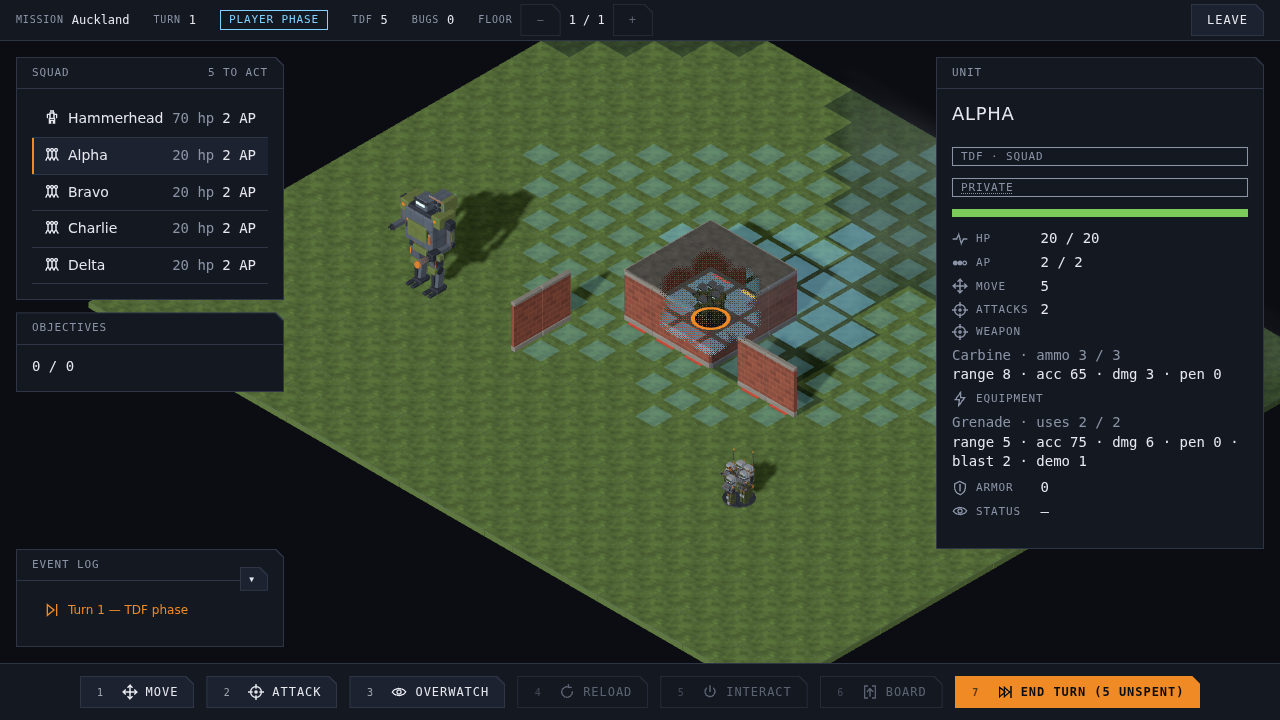
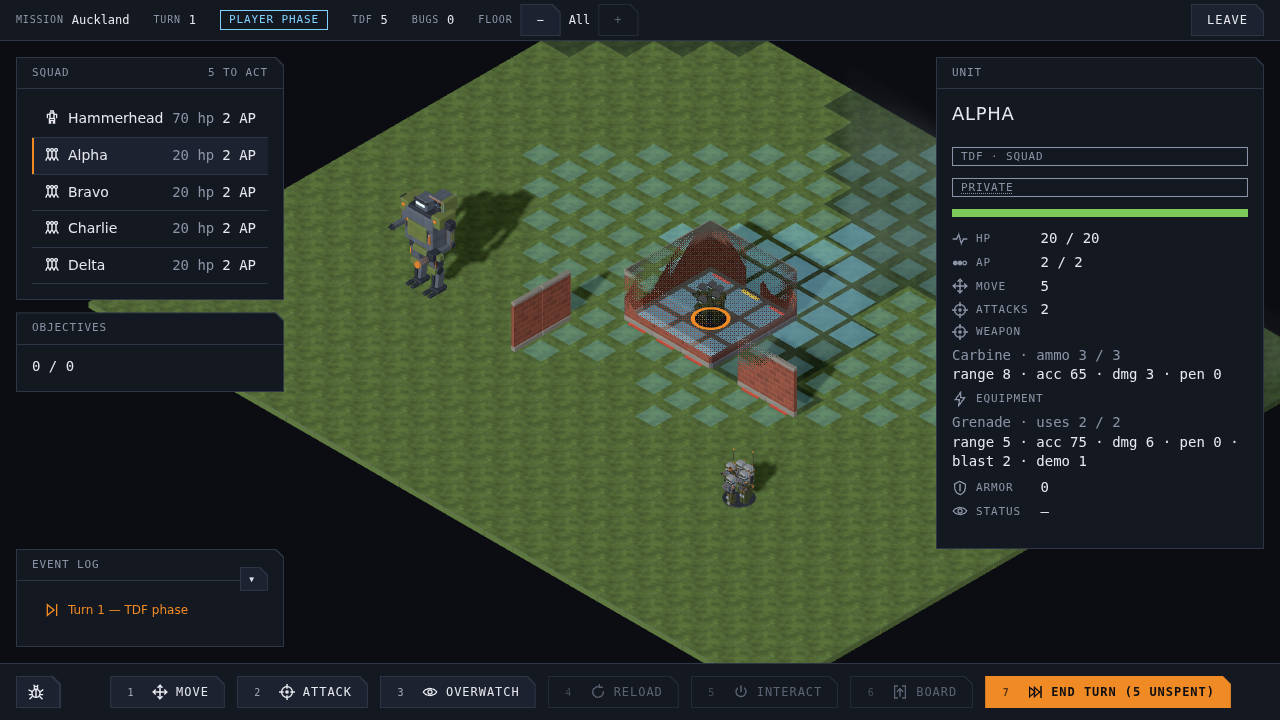
test(e2e): capture a squad inside a generated building through the cutaway; re-render the test room (#1138)

diff --git a/e2e/ghost-interior-screenshot.spec.ts b/e2e/ghost-interior-screenshot.spec.ts
@@ -1,0 +1,257 @@
+import { expect, test } from "@playwright/test";
+
+import {
+  directionOffset,
+  oppositeDirection,
+  stepGridPos,
+} from "../src/core/service/grid-math";
+import { allows, PassMask } from "../src/mapgen/model/pass-mask";
+import type { TileCoord } from "../src/mapgen/model/tile-coord";
+import { TileIndex } from "../src/mapgen/service/tile-index";
+import type { GameState } from "../src/save/model/game-state";
+import type { SaveEnvelope } from "../src/save/model/save-envelope";
+import {
+  buildMoveGraph,
+  pathTo,
+} from "../src/tactical/service/movement-service";
+import { initialVision } from "../src/tactical/service/vision-service";
+import type { TacticalTestHooks } from "../src/ui/model/tactical-intent";
+import {
+  assertNoAssetFallback,
+  drawnFrame,
+  tacticalModelsReady,
+  watchAssetFallback,
+} from "./capture-frame.helper";
+import { CITY_MISSION_FIXTURE } from "./fixtures/mission-maps";
+import { launchMission, settleForShot } from "./mission-capture.helper";
+
+/** The page's global object as seen from `page.evaluate`. */
+interface HookGlobal {
+  __tutTactical__?: TacticalTestHooks;
+}
+
+/** The autosave the mission is rewritten through. */
+const SAVE_KEY = "tut:save:autosave";
+
+/** The building `interior-movement.spec.ts` walks a squad into, on the same fixture. */
+const BUILDING_ID = "building-3";
+
+/** The squad the frame is judged on: standing deep enough inside for walls on every side. */
+const INSIDE_ID = "unit-2";
+
+/** The second squad, one step in from the doorway, so the door reads as a door. */
+const DOOR_ID = "unit-3";
+
+/** Steps in from the doorway the judged squad stands, along a real path. */
+const DEPTH = { min: 2, max: 3 } as const;
+
+/**
+ * Wheel notches that zoom the tactical camera in on the room. One notch
+ * is clamped to 120 px and the zoom factor is `exp(-px × 0.0015)`, so
+ * four notches are ×2.05, about 131 px per tile from the opening 64.
+ * The interior is legible at that size and the doorway and the
+ * neighbouring rooms are still in the frame.
+ */
+const ZOOM_IN = { notches: 4, px: -120 } as const;
+
+/**
+ * A squad inside a real generated building, seen through the cutaway,
+ * for the Executive Director's call on #1138: the ray radius after
+ * #1134 was too tight to navigate a room by. The frame is the judge.
+ *
+ * ```
+ *   before (#1134)                    after (#1138)
+ *   radius 0.6, 11 rays               radius 1.2, 11 body rays + a ring
+ *   ┌──────────────┐                   of 8 at waist height 0.75 u out
+ *   │ ████▒▒◉▒▒███ │  the unit and a   ┌──────────────┐
+ *   │ ████▒▒▒▒▒███ │  sliver of wall   │ ▒▒░░░░◉░░░▒▒ │  the unit, its tile,
+ *   │ ████████████ │  around it        │ ▒░░░░░░░░░░▒ │  a two-tile ring, the
+ *   └──────────────┘                   │ ▒▒░░░░░░░▒▒█ │  door and the near
+ *                                      └──────────────┘  internal walls
+ * ```
+ *
+ * Before: the radius was a little over half a tile and the rays left
+ * from the unit's body only, so the window on a wall in front was the
+ * unit's silhouette plus a rim and the roof over the next tile stayed
+ * solid — the unit was visible and nothing around it was, which the
+ * Executive Director could not navigate by. After: the radius is 1.2
+ * tiles and a ring of eight rays leaves from waist height 0.75 tiles
+ * outside the footprint, so the window is a cone around the unit that
+ * opens the roof and the near walls over about a two-tile ring on its
+ * floor — the tile grid, the door with the second squad in it and the
+ * desk by the far wall all read — while walls a few tiles off stay
+ * solid and the four-storey block keeps its shape. Tried on the way:
+ * 1.1 with a 0.5 margin, a touch narrower on both frames; 0.6 with the
+ * ring alone was still a keyhole. The soft edge went from 0.25 to 0.45
+ * with the radius. `e2e/tile-attack.spec.ts`, the wheel-heavy spec CI
+ * timed out on before #1134, ran 8.2–8.5 s before and 7.6–7.9 s after
+ * under SwiftShader: the reach reject still drops most fragments after
+ * one length (Executive Director, 2026-09-14, #1138).
+ *
+ * The starter force is launched for real on the pinned city fixture,
+ * then the board is rewritten: one squad two or three steps inside the
+ * building `interior-movement.spec.ts` uses, one squad a step in from
+ * its door, the rest of the force well outside. The storey cut is
+ * lifted so the roof is drawn, the camera is brought to the inside
+ * squad and zoomed in, and the frame is taken. The placement is
+ * asserted from the saved state on both sides of the reload, so a
+ * frame of the wrong thing fails instead of passing.
+ *
+ *   CAPTURE=1 pnpm exec playwright test e2e/ghost-interior-screenshot.spec.ts
+ */
+test("the cutaway opens a cone around a squad inside a generated building", async ({
+  page,
+}) => {
+  test.skip(
+    process.env.CAPTURE === undefined,
+    "set CAPTURE=1 to regenerate the ghost-interior screenshot",
+  );
+  test.setTimeout(180_000);
+  const errors: string[] = [];
+  page.on("pageerror", (error) => errors.push(error.message));
+  watchAssetFallback(page);
+  await page.setViewportSize({ width: 1280, height: 720 });
+  await launchMission(page, "4242", CITY_MISSION_FIXTURE);
+  await tacticalModelsReady(page);
+
+  const save = await page.evaluate(
+    (key) => JSON.parse(localStorage.getItem(key)!) as SaveEnvelope<GameState>,
+    SAVE_KEY,
+  );
+  const original = save.state.activeMission!;
+  const building = original.map.buildings.find((b) => b.id === BUILDING_ID);
+  expect(building, `${BUILDING_ID} is on the fixture`).toBeDefined();
+  const entrance = building!.entrances[0];
+  const entry = entrance.tile;
+  const inward = stepGridPos(entry, oppositeDirection(entrance.side));
+  const outward = directionOffset(entrance.side);
+  /** Positions on the entrance's exterior apron, in door-relative coordinates. */
+  const outside = (distance: number, lateral = 0): TileCoord => ({
+    x: entry.x + outward.x * distance - outward.z * lateral,
+    y: entry.y,
+    z: entry.z + outward.z * distance + outward.x * lateral,
+  });
+  const index = new TileIndex(original.map);
+  expect(index.getAt(inward)?.buildingId).toBe(BUILDING_ID);
+
+  // The judged squad's tile: an interior floor tile of the building a
+  // real path of two or three steps in from the doorway, so there is
+  // building on every side of it and the door is still near.
+  const graph = buildMoveGraph(original.map);
+  const atDoor = {
+    ...original,
+    units: original.units.map((unit) =>
+      unit.id === INSIDE_ID ? { ...unit, pos: inward } : unit,
+    ),
+  };
+  const deep = original.map.tiles
+    .filter(
+      (tile) =>
+        tile.buildingId === BUILDING_ID &&
+        tile.y === inward.y &&
+        allows(tile.pass, PassMask.INFANTRY) &&
+        !(tile.x === inward.x && tile.z === inward.z),
+    )
+    .map((tile) => {
+      const to = { x: tile.x, y: tile.y, z: tile.z };
+      return { to, steps: pathTo(atDoor, INSIDE_ID, to, graph)?.length ?? 0 };
+    })
+    .filter(({ steps }) => steps >= DEPTH.min && steps <= DEPTH.max)
+    .sort((a, b) => b.steps - a.steps)[0];
+  expect(deep, "an interior tile a few steps in from the door").toBeDefined();
+
+  const positions: Record<string, TileCoord> = {
+    "unit-1": outside(4, -4),
+    [INSIDE_ID]: deep.to,
+    [DOOR_ID]: inward,
+  };
+  for (const [id, pos] of Object.entries(positions)) {
+    const tile = index.getAt(pos);
+    expect(
+      allows(
+        tile?.pass ?? PassMask.NONE,
+        id === "unit-1" ? PassMask.MECH : PassMask.INFANTRY,
+      ),
+      `${id} stands on a passable tile`,
+    ).toBe(true);
+  }
+  expect(index.getAt(positions["unit-1"])?.buildingId).toBeUndefined();
+  const positioned = {
+    ...original,
+    // Only the three units the scene is staged for: the rest of the
+    // force would stand on the apron and open its own windows.
+    units: original.units
+      .filter((u) => u.team !== "tdf" || u.id in positions)
+      .map((u) => ({ ...u, pos: positions[u.id] ?? u.pos })),
+    spawners: [],
+    effects: [],
+  };
+  const mission = { ...positioned, vision: initialVision(positioned) };
+  await page.evaluate(({ key, value }) => localStorage.setItem(key, value), {
+    key: SAVE_KEY,
+    value: JSON.stringify({
+      ...save,
+      state: { ...save.state, activeMission: mission },
+    }),
+  });
+  await page.reload();
+  await page.locator('[data-action="continue"]').click();
+  await tacticalModelsReady(page);
+  await expect(page.locator("body")).toHaveAttribute(
+    "data-tactical-units",
+    String(Object.keys(positions).length),
+  );
+  await settleForShot(page);
+
+  // The rewrite persisted: the squad the frame is judged on is inside.
+  const resumed = await page.evaluate(
+    (key) => JSON.parse(localStorage.getItem(key)!) as SaveEnvelope<GameState>,
+    SAVE_KEY,
+  );
+  const standing = resumed.state.activeMission!.units.find(
+    (unit) => unit.id === INSIDE_ID,
+  );
+  expect(standing?.pos).toEqual(deep.to);
+  expect(
+    new TileIndex(resumed.state.activeMission!.map).getAt(standing!.pos)
+      ?.buildingId,
+  ).toBe(BUILDING_ID);
+
+  // No storey cut: the roof is drawn, so only the cutaway can show the
+  // squads. The roster row brings the camera to the inside squad
+  // (#1041) and the wheel zooms in on it.
+  await page.evaluate(() => {
+    (globalThis as HookGlobal).__tutTactical__?.stepLayer(999);
+  });
+  await page
+    .locator(`[data-role="squad-list"] li[data-unit-id="${INSIDE_ID}"]`)
+    .click();
+  await expect(page.locator("body")).toHaveAttribute(
+    "data-tactical-selected",
+    INSIDE_ID,
+  );
+  const box = await page.locator("#tactical-viewport").boundingBox();
+  expect(box).not.toBeNull();
+  await page.mouse.move(box!.x + box!.width / 2, box!.y + box!.height / 2);
+  for (let notch = 0; notch < ZOOM_IN.notches; notch++) {
+    await page.mouse.wheel(0, ZOOM_IN.px);
+  }
+  await page.mouse.move(-10, -10);
+  // The zoom eases and the cutaway ramps in over 0.15 s; let both land.
+  await page.waitForTimeout(1200);
+  const unitAt = await page.evaluate(
+    (id) => (globalThis as HookGlobal).__tutTactical__?.unitScreenPosition(id),
+    INSIDE_ID,
+  );
+  expect(unitAt, "the inside squad is on screen").toBeDefined();
+  expect(unitAt!.x).toBeGreaterThan(box!.x);
+  expect(unitAt!.x).toBeLessThan(box!.x + box!.width);
+  expect(unitAt!.y).toBeGreaterThan(box!.y);
+  expect(unitAt!.y).toBeLessThan(box!.y + box!.height);
+  await drawnFrame(page);
+  assertNoAssetFallback(page, "the ghost-interior frame");
+  await page.locator("#tactical-viewport").screenshot({
+    path: "docs/design/ghost-interior.png",
+  });
+  expect(errors).toEqual([]);
+});
